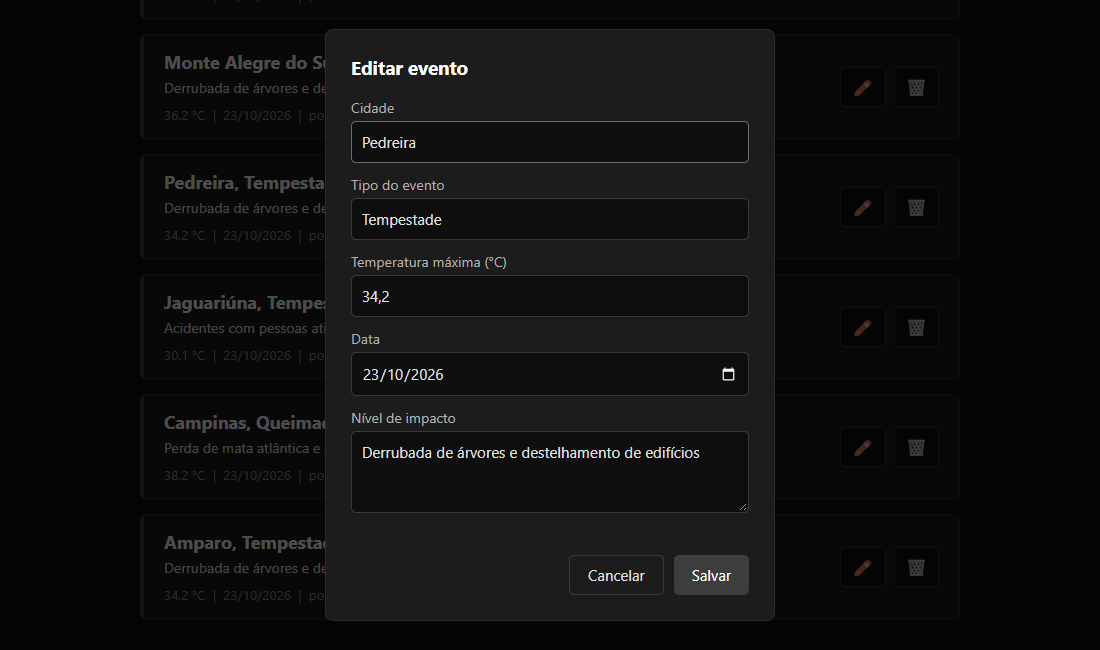
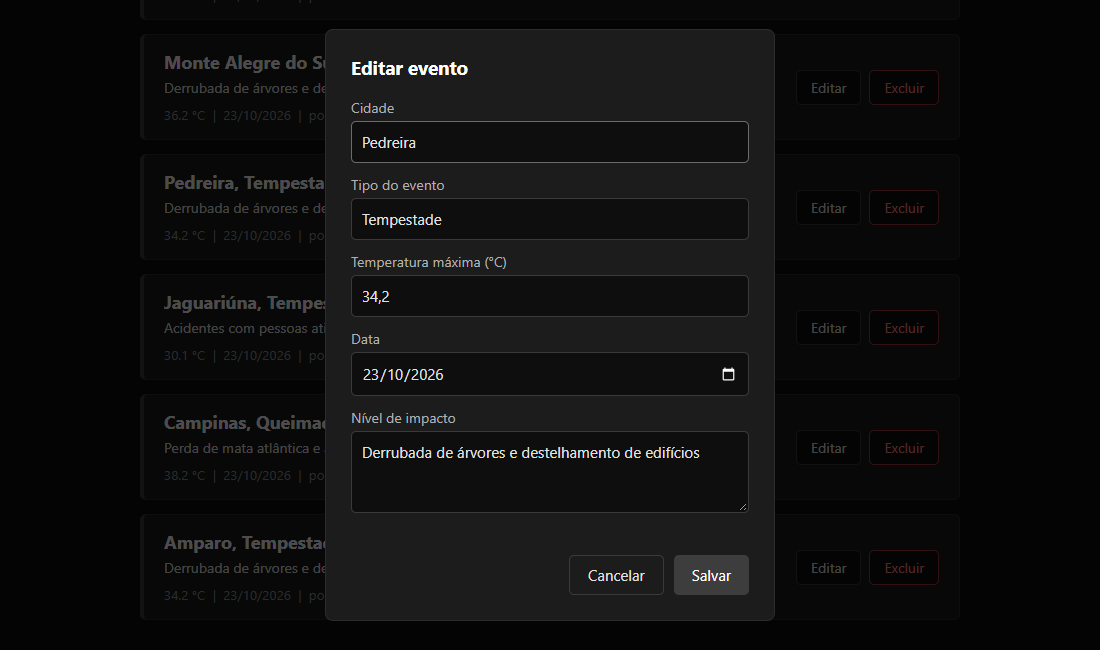
Troca os emojis por botões de texto

diff --git a/web/js/home.js b/web/js/home.js
@@ -48,8 +48,8 @@ function mostrarEventos() {
                 <small>${temp} &nbsp;|&nbsp; ${data} &nbsp;|&nbsp; por ${escapar(ev.usuario ? ev.usuario.nome : '')}</small>
             </div>
             <div class="acoes">
-                <button class="btn-editar" title="Editar">✏</button>
-                <button class="btn-excluir" title="Excluir">🗑</button>
+                <button class="btn-editar">Editar</button>
+                <button class="btn-excluir">Excluir</button>
             </div>
         `;
 

diff --git a/web/css/style.css b/web/css/style.css
@@ -184,12 +184,23 @@ main {
     background-color: #0e0e0e;
     border: 1px solid #3a3a3a;
     border-radius: 5px;
-    padding: 8px 10px;
-    font-size: 17px;
+    padding: 7px 14px;
+    font-size: 14px;
+    color: #e2e2e2;
 }
 
 .acoes button:hover {
     border-color: #6b6b6b;
+}
+
+.acoes .btn-excluir {
+    color: #ff8a8a;
+    border-color: #a33a3a;
+}
+
+.acoes .btn-excluir:hover {
+    background-color: #a33a3a;
+    color: white;
 }
 
 .aviso {
